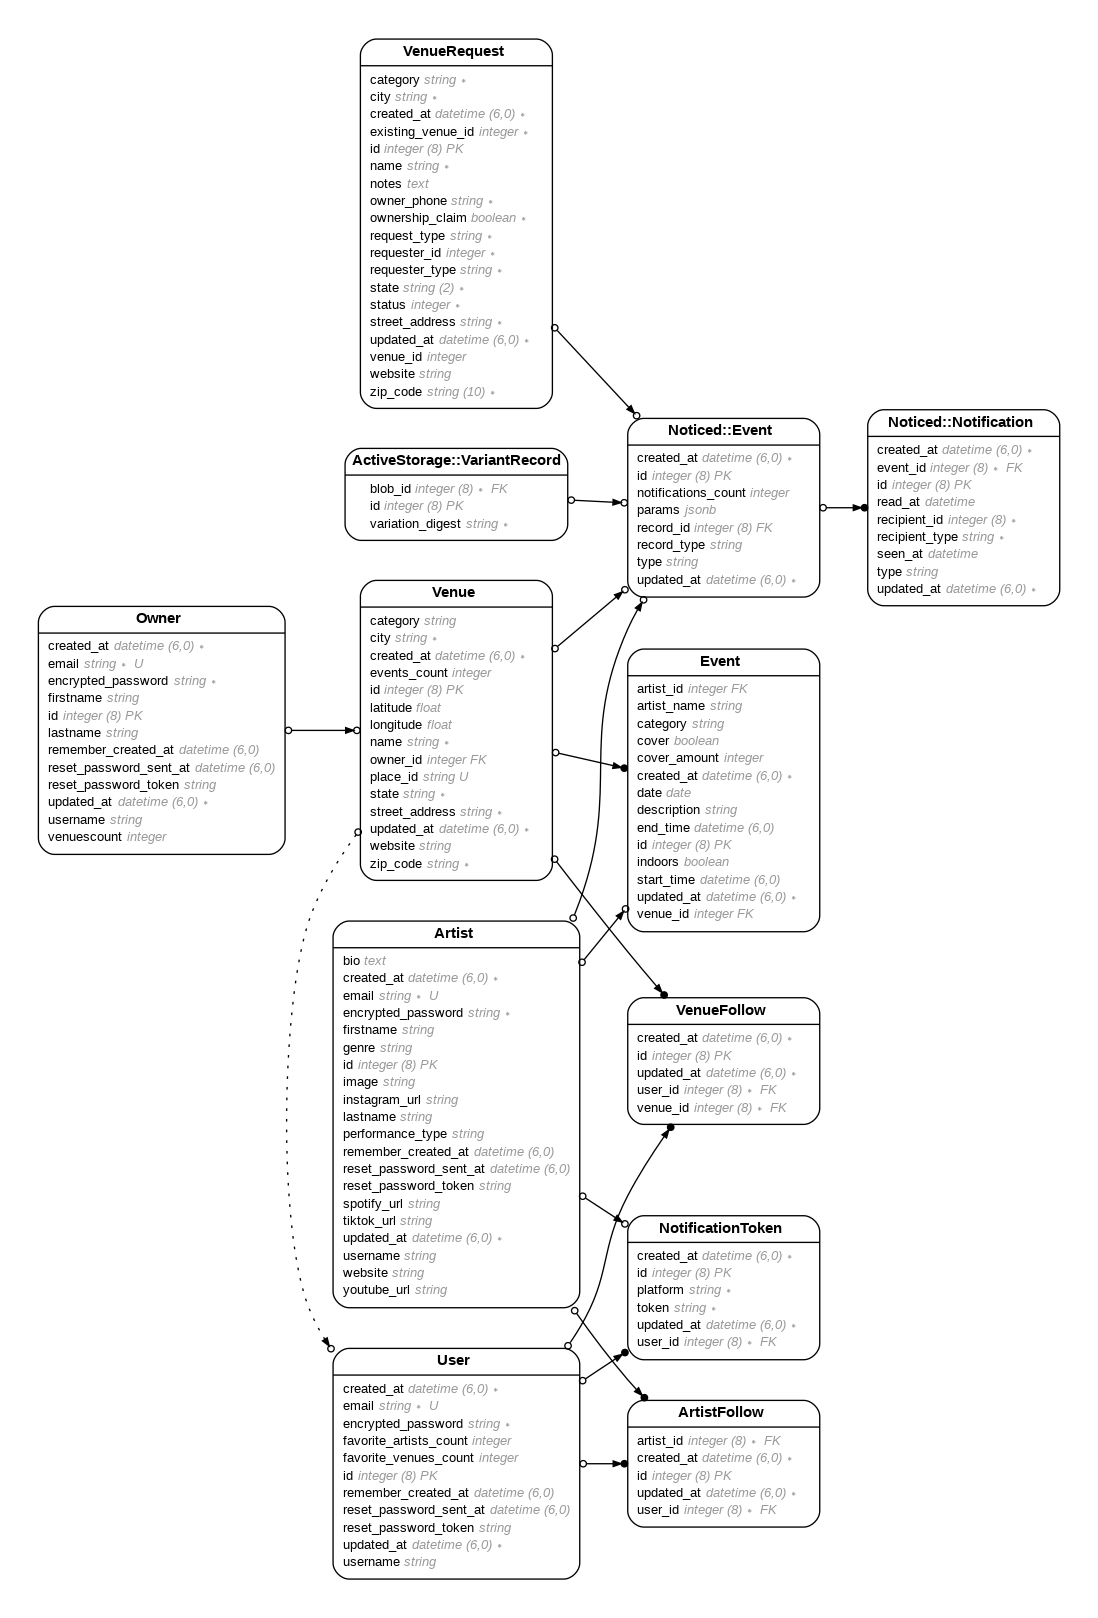
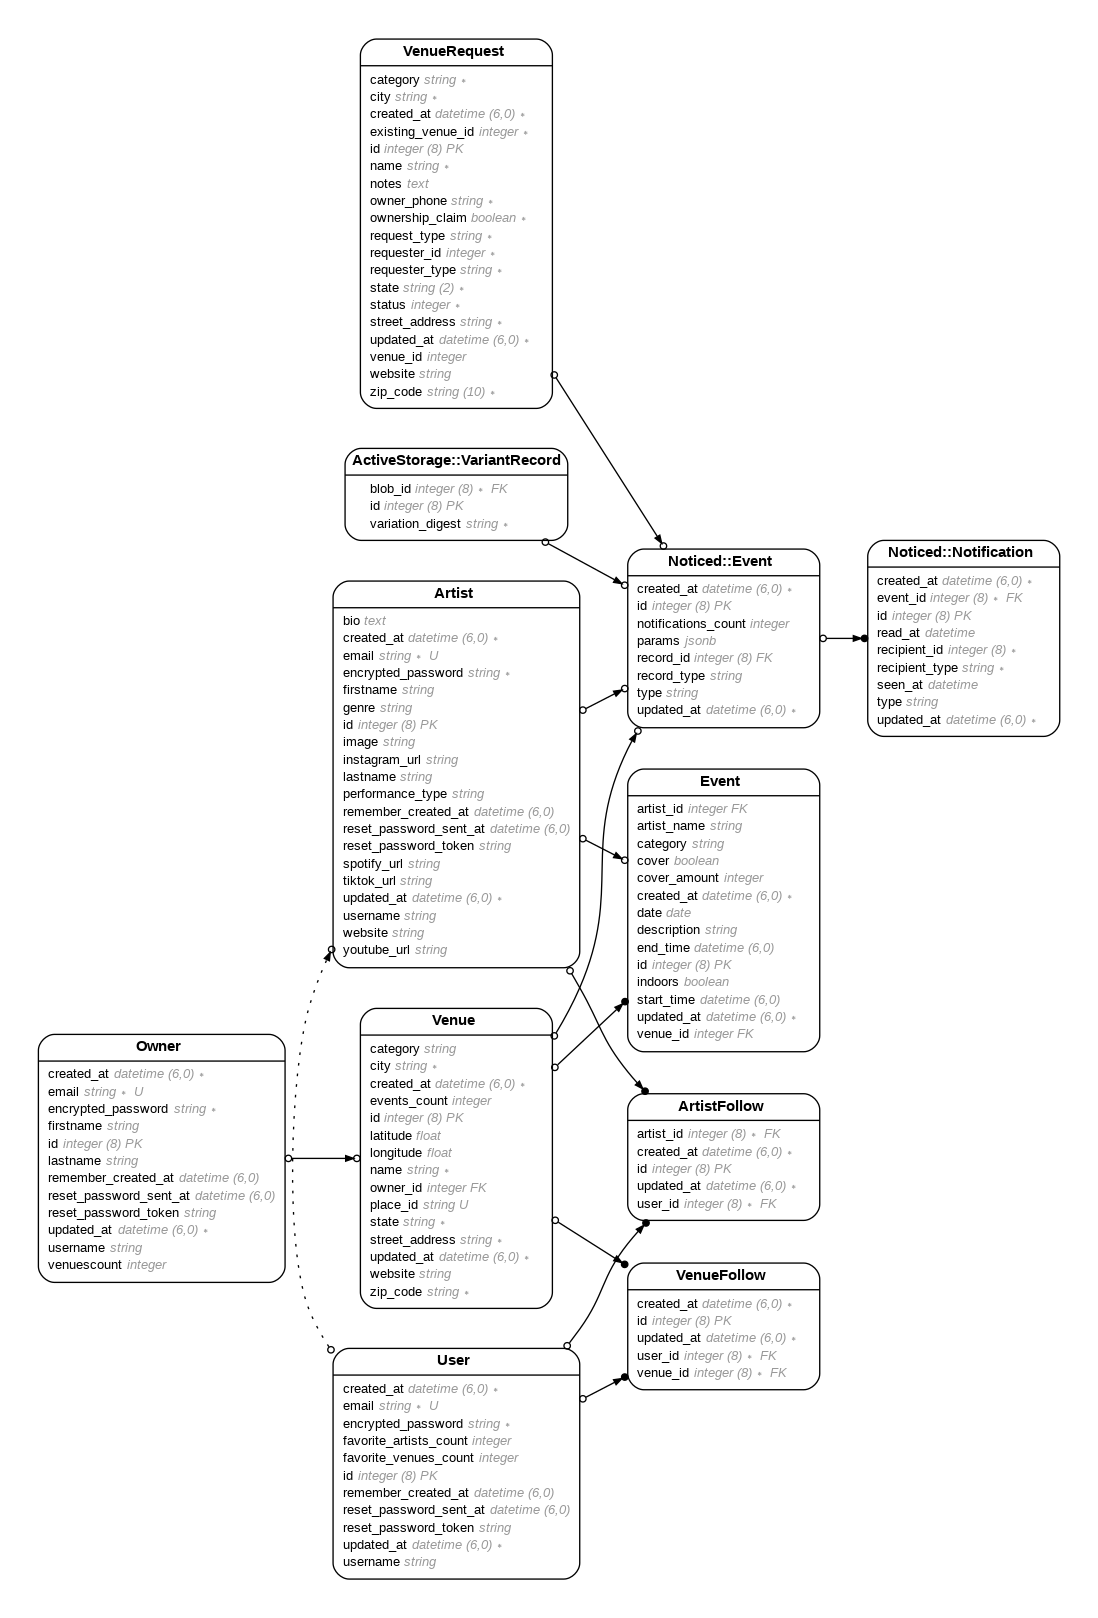
think i reverted to old notification stuff but i dont know

diff --git a/db/schema.rb b/db/schema.rb
@@ -10,7 +10,7 @@
 #
 # It's strongly recommended that you check this file into your version control system.
 
-ActiveRecord::Schema[8.0].define(version: 2025_07_18_205351) do
+ActiveRecord::Schema[8.0].define(version: 2025_08_04_004951) do
   # These are extensions that must be enabled in order to support this database
   enable_extension "pg_catalog.plpgsql"
 

diff --git a/db/migrate/20250804004951_create_notification_tokens.rb b/db/migrate/20250804004951_create_notification_tokens.rb
@@ -4,7 +4,6 @@ class CreateNotificationTokens < ActiveRecord::Migration[8.0]
       t.references :user, null: false, foreign_key: true
       t.string :token, null: false
       t.string :platform, null: false
-
       t.timestamps
     end
   end
